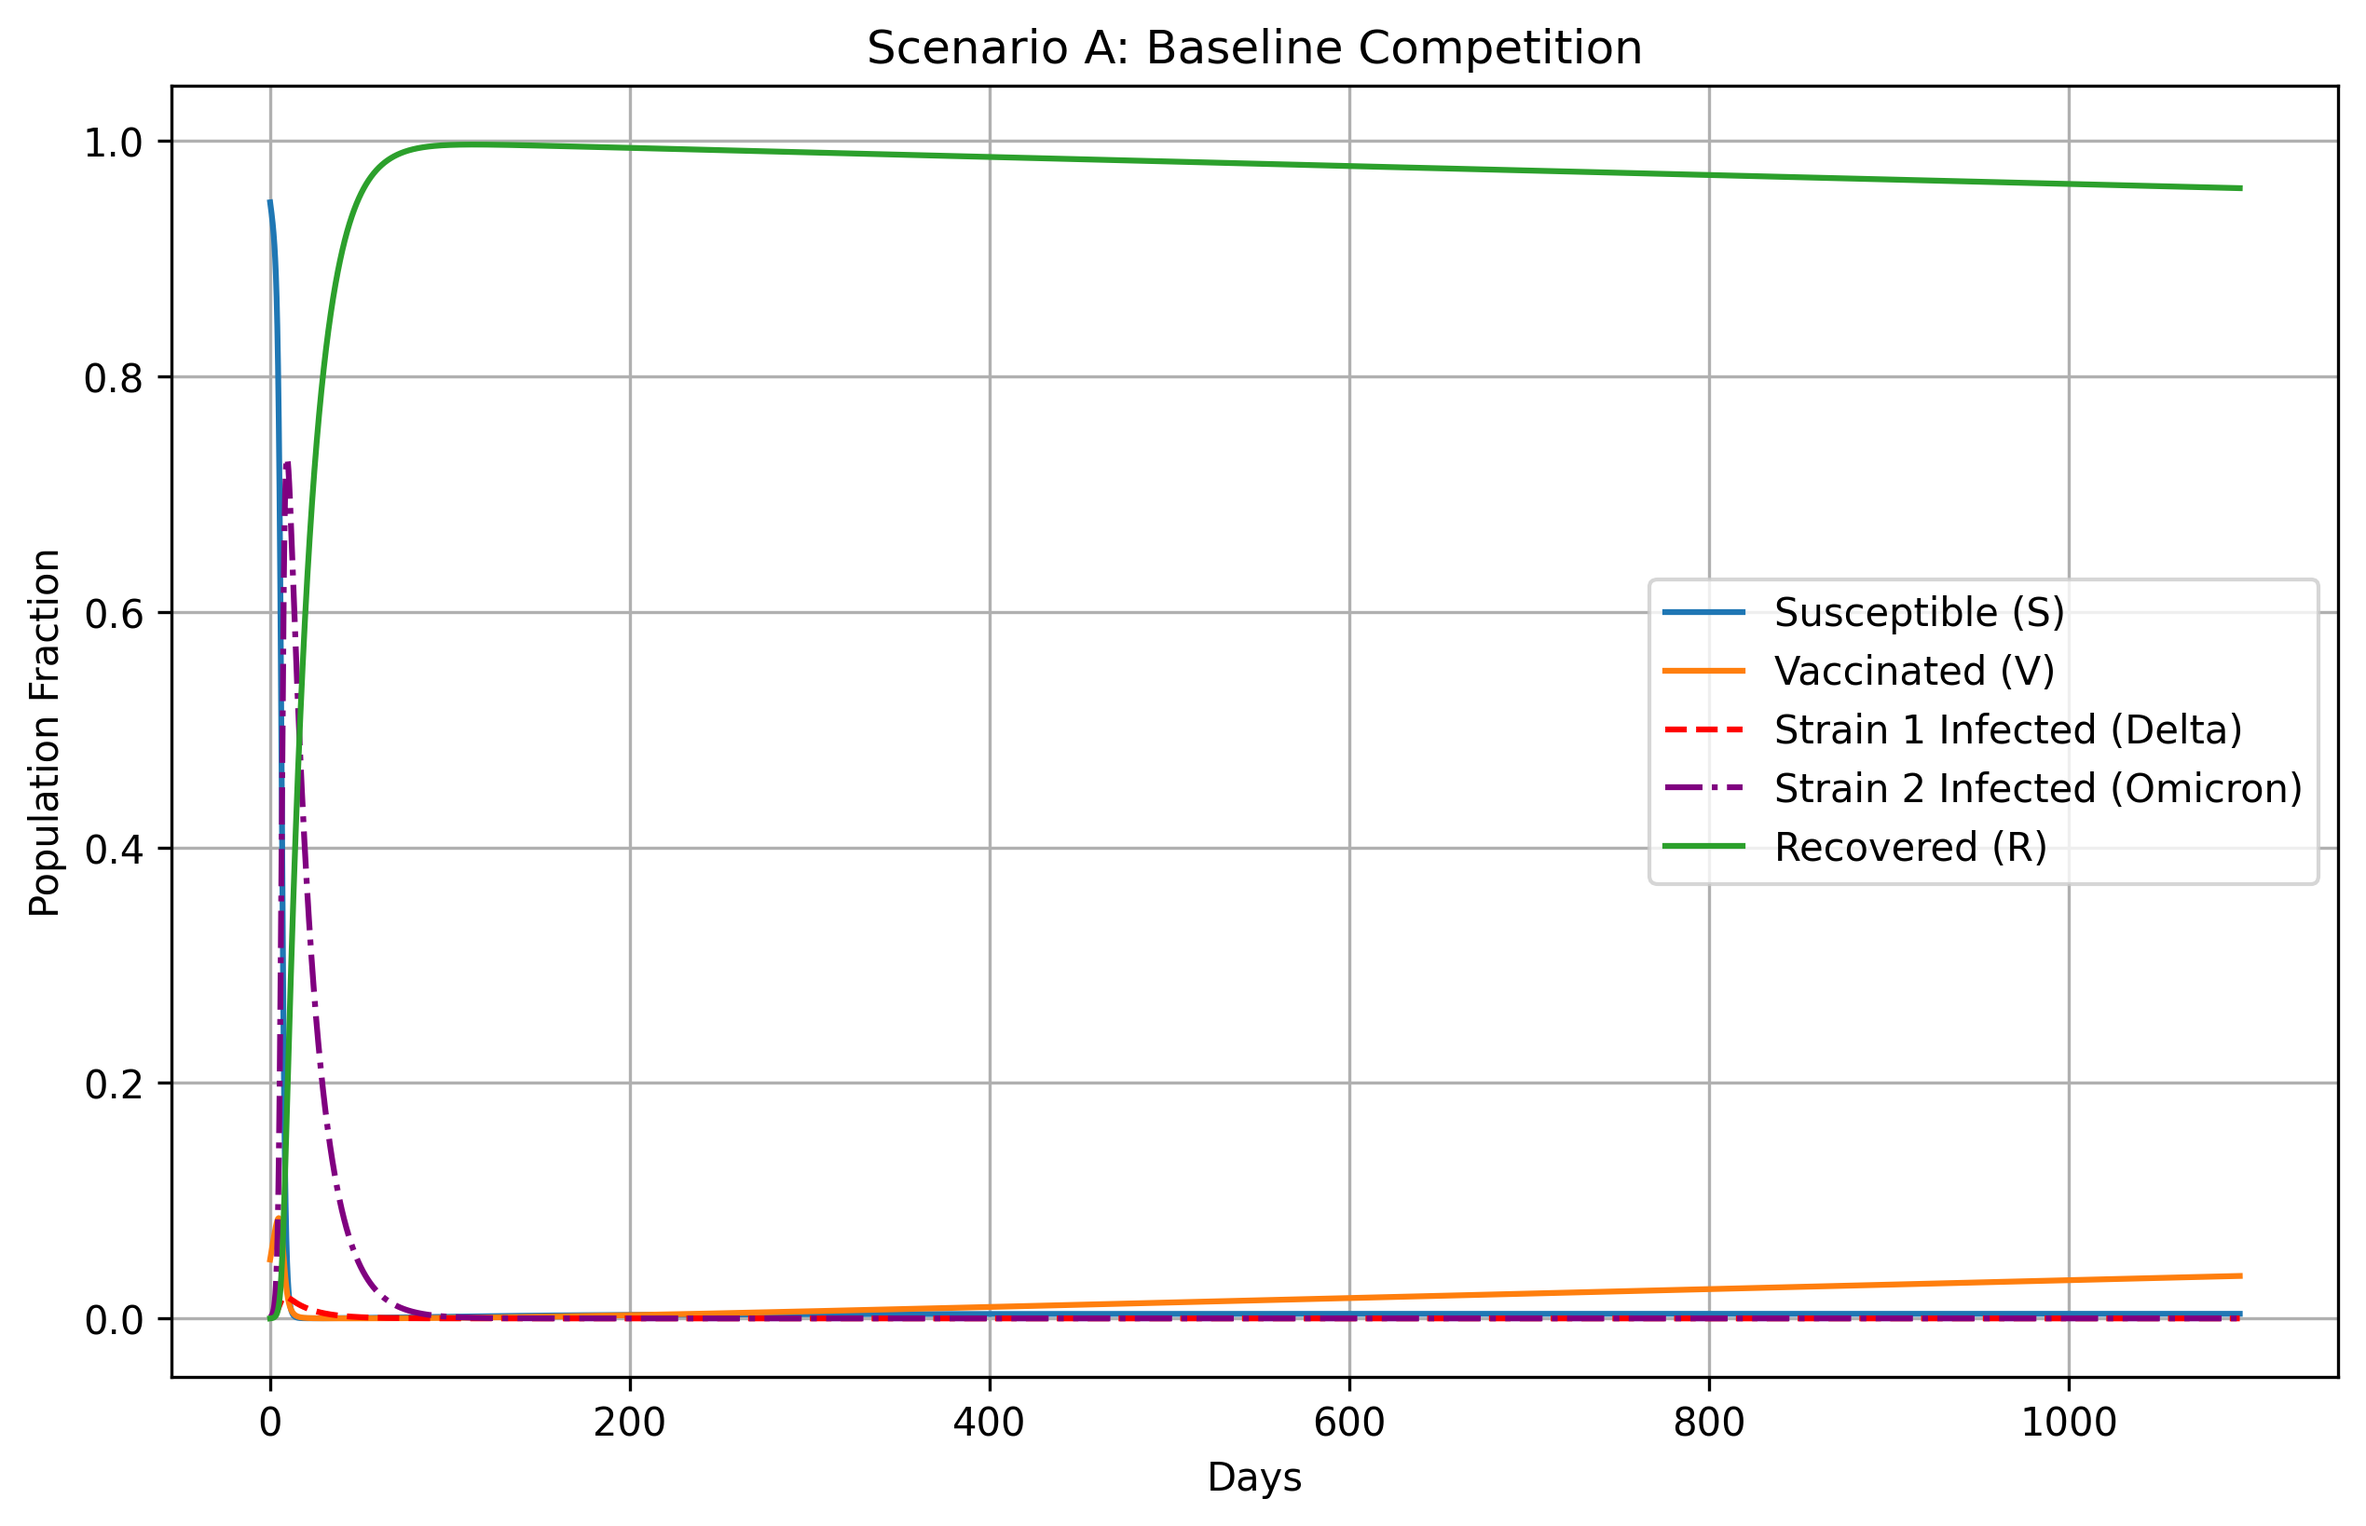
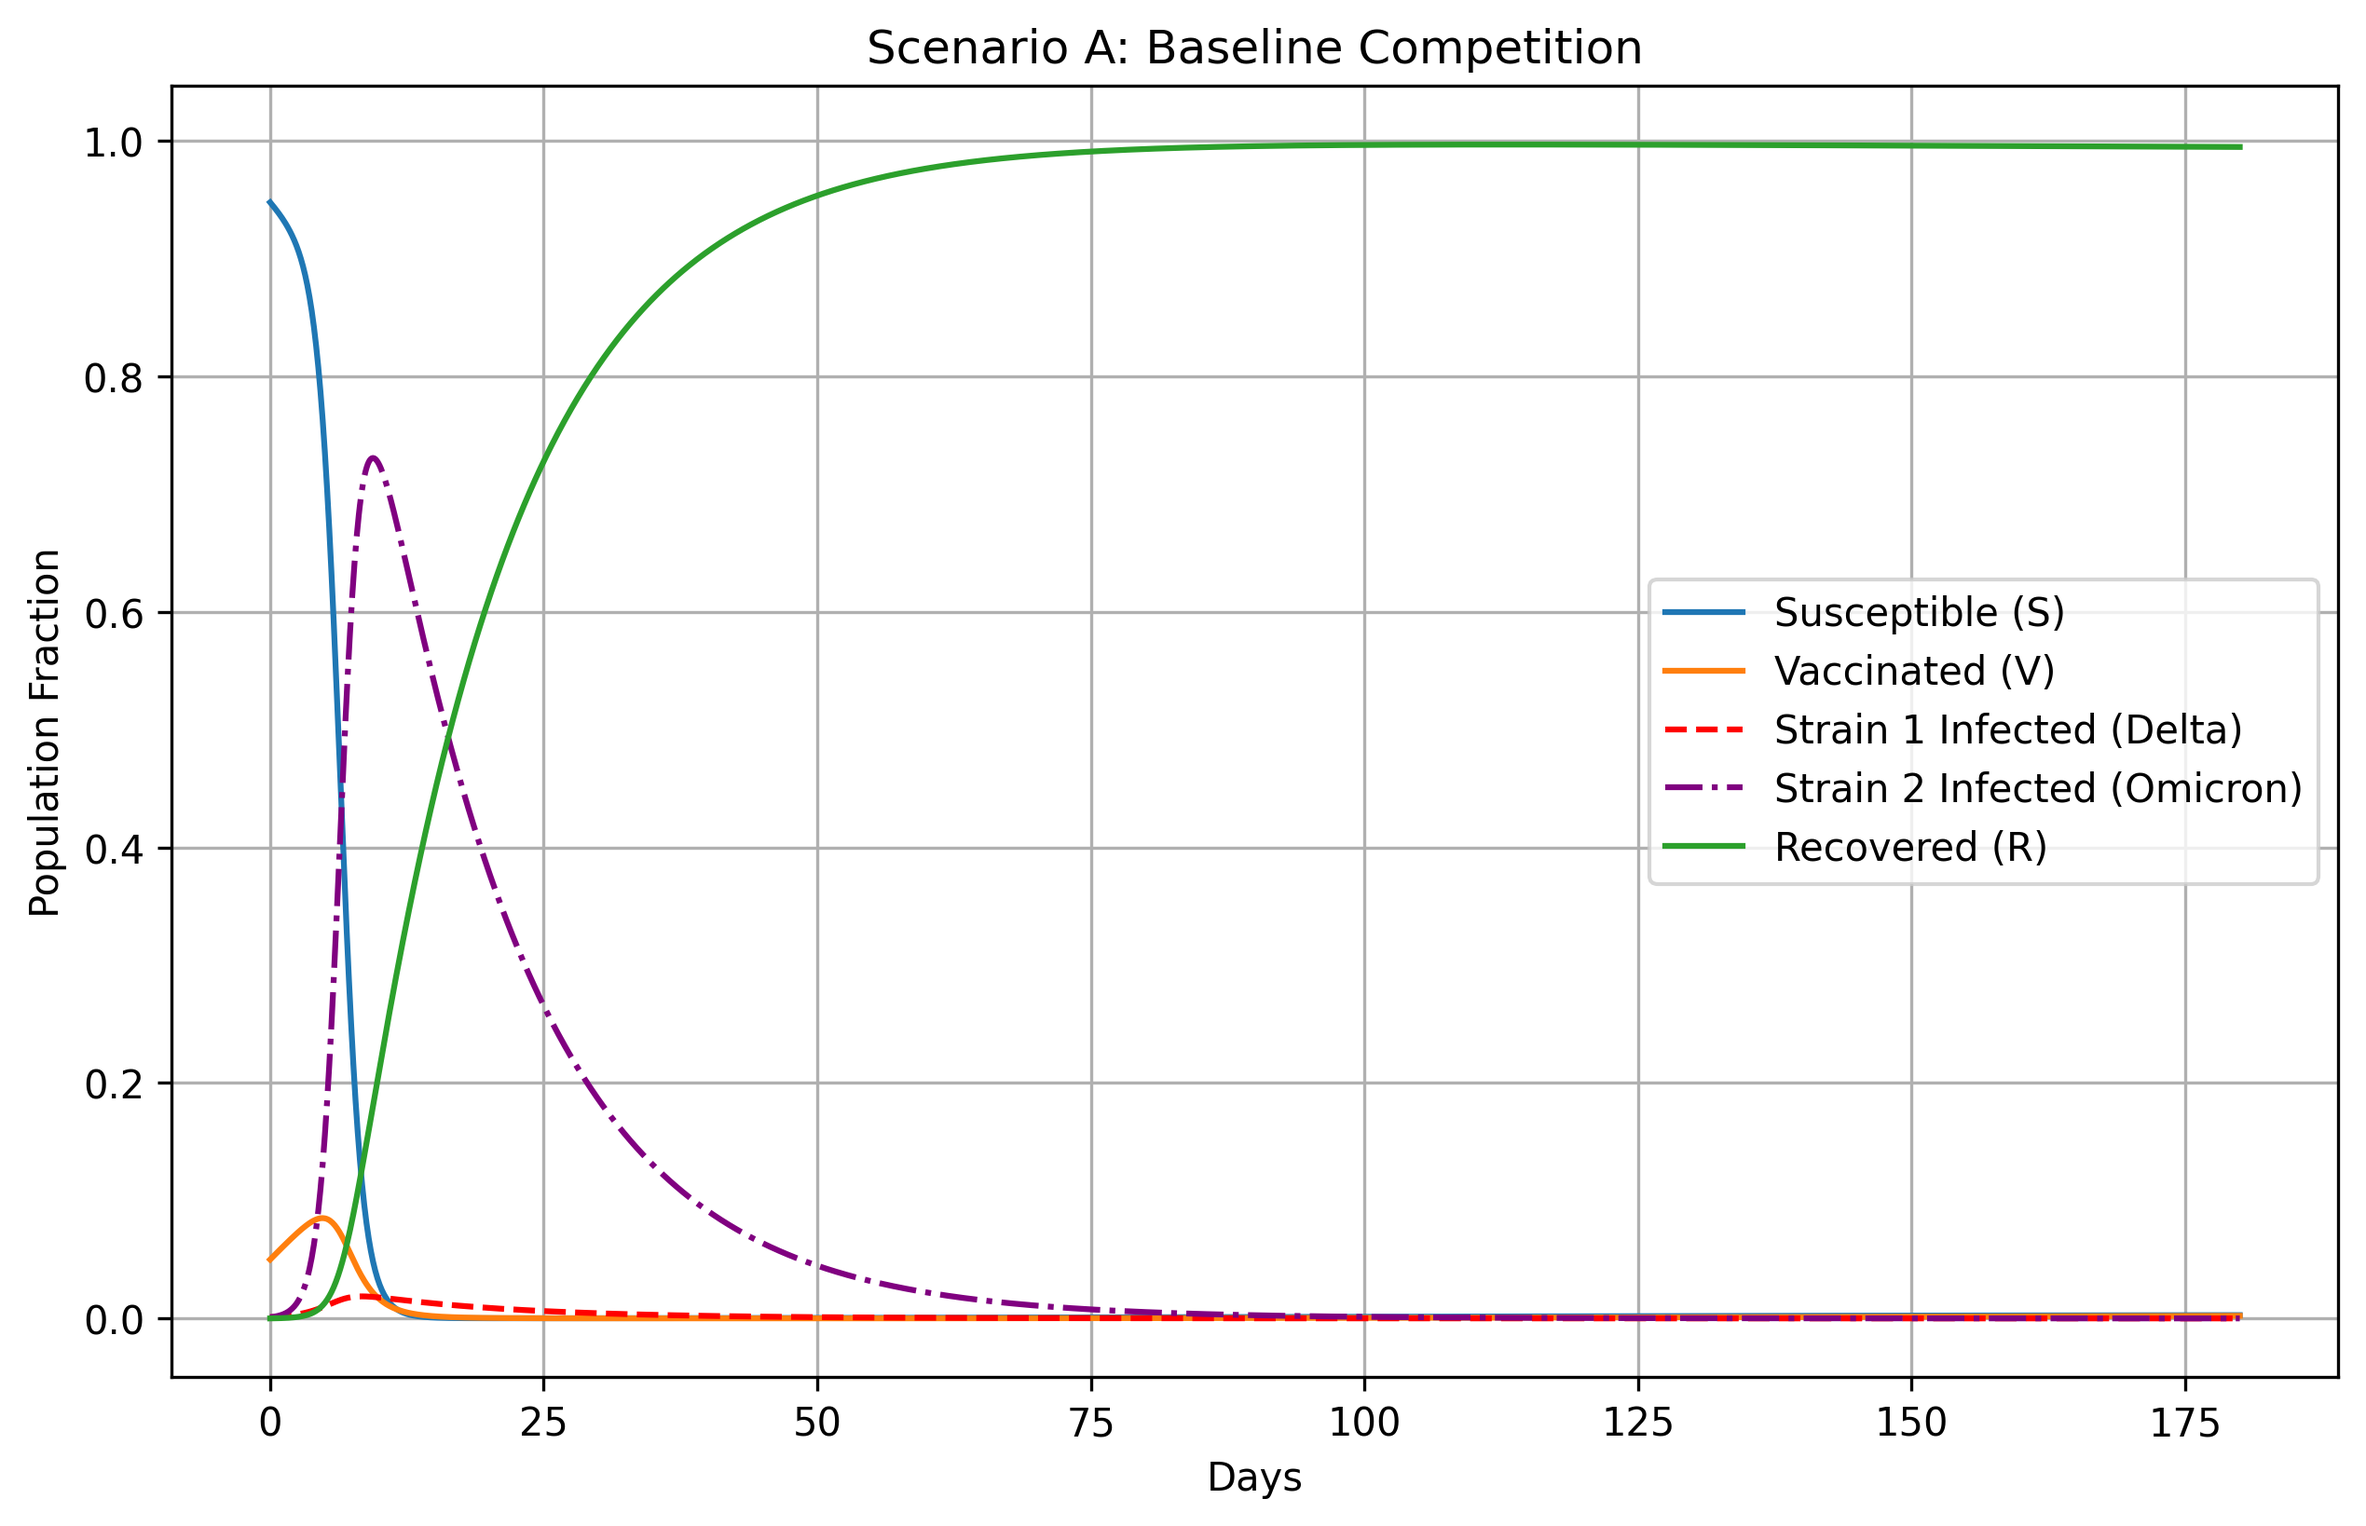
Update graphs

diff --git a/simulation.py b/simulation.py
@@ -90,11 +90,11 @@ def plot_simulation(t, sol, title, filename=None):
 if __name__ == "__main__":
     # Scenario A: Baseline Competition
     # Explicitly setting days=1095 to align with the report's endemicity claim
-    t, sol_A = run_simulation(sigma1=0.10, sigma2=0.60, nu=0.01, days=1095)
+    t, sol_A = run_simulation(sigma1=0.10, sigma2=0.60, nu=0.01, days=180)
     plot_simulation(t, sol_A, "Scenario A: Baseline Competition", "scenario_A.png")
     
     # Scenario B: Vaccination Surge
-    t, sol_B = run_simulation(sigma1=0.10, sigma2=0.60, nu=0.05, days=1095)
+    t, sol_B = run_simulation(sigma1=0.10, sigma2=0.60, nu=0.05, days=180)
     plot_simulation(t, sol_B, "Scenario B: Vaccination Surge", "scenario_B.png")
 
     # Scenario C: Parameter Sweeping / Phase Portrait
@@ -102,7 +102,7 @@ if __name__ == "__main__":
     peak_I2_prevalence = []
     
     for b2 in beta2_values:
-        t, sol = run_simulation(beta2=b2, days=500) # Run slightly longer to ensure equilibrium
+        t, sol = run_simulation(beta2=b2, days=300) # Run slightly longer to ensure equilibrium
         # Take the peak prevalence of I2
         max_I2 = np.max(sol[:, 3])
         peak_I2_prevalence.append(max_I2)

diff --git a/report.tex b/report.tex
@@ -7,7 +7,7 @@
 \geometry{a4paper, margin=1in}
 
 \title{Survival of the Fittest: A Mathematical Study of Multi-Strain SIR Dynamics under Differential Vaccine Efficacy}
-\author{Team Members}
+\author{Muhammad Saad - ms08063 and Meesum Abbas - ma08056}
 \date{\today}
 
 \begin{document}
